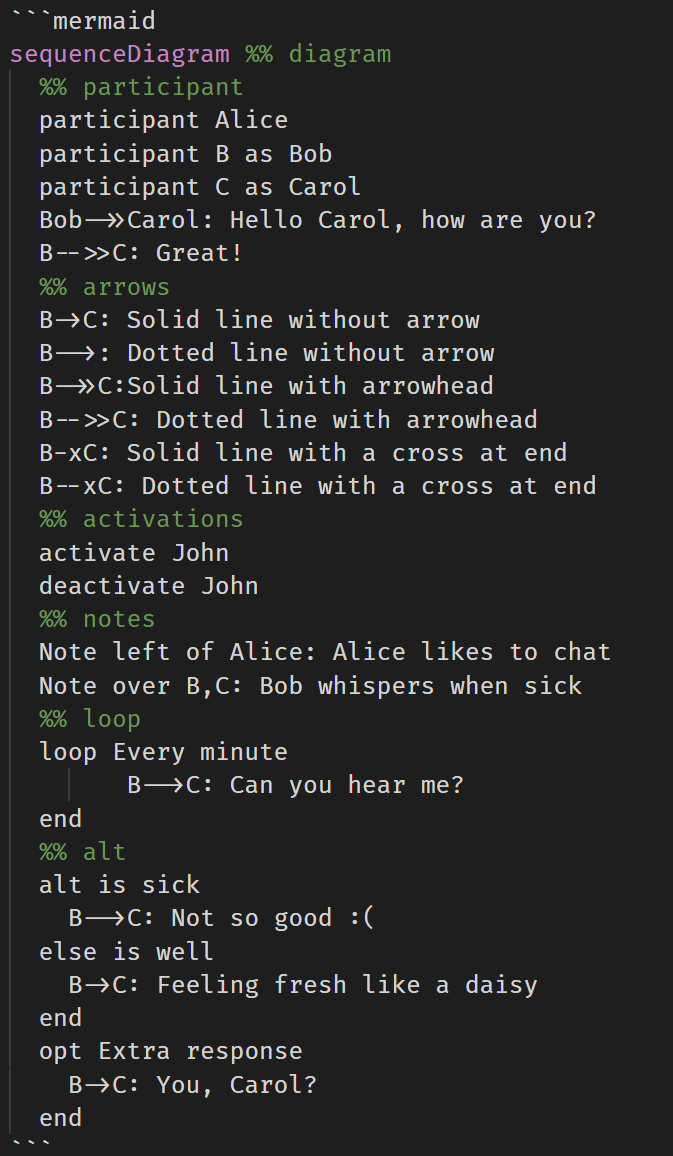
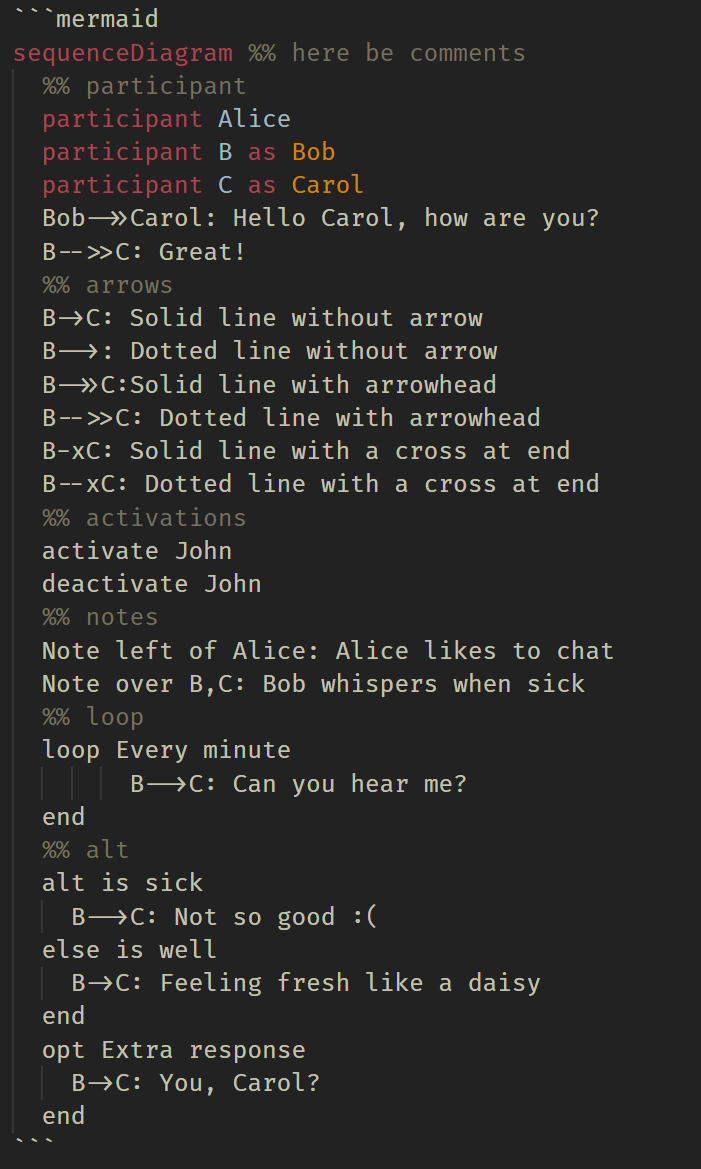
docs: update sequence sceenshot with actor support

Changed region(s): [[0.0, 0.0, 0.9049, 0.6851], [0.0624, 0.6851, 0.8113, 0.9965]]

diff --git a/README.md b/README.md
@@ -92,8 +92,8 @@ sequenceDiagram %% diagram
 
 - [ ] Keywords
 - [x] %% Comments
-- [ ] participant Actor
-- [ ] participant Aliases
+- [x] participant Actor
+- [x] participant Aliases
 - [ ] Actor->>Actor
 - [ ] 6 arrow types
 - [ ] (de)activate Actor
